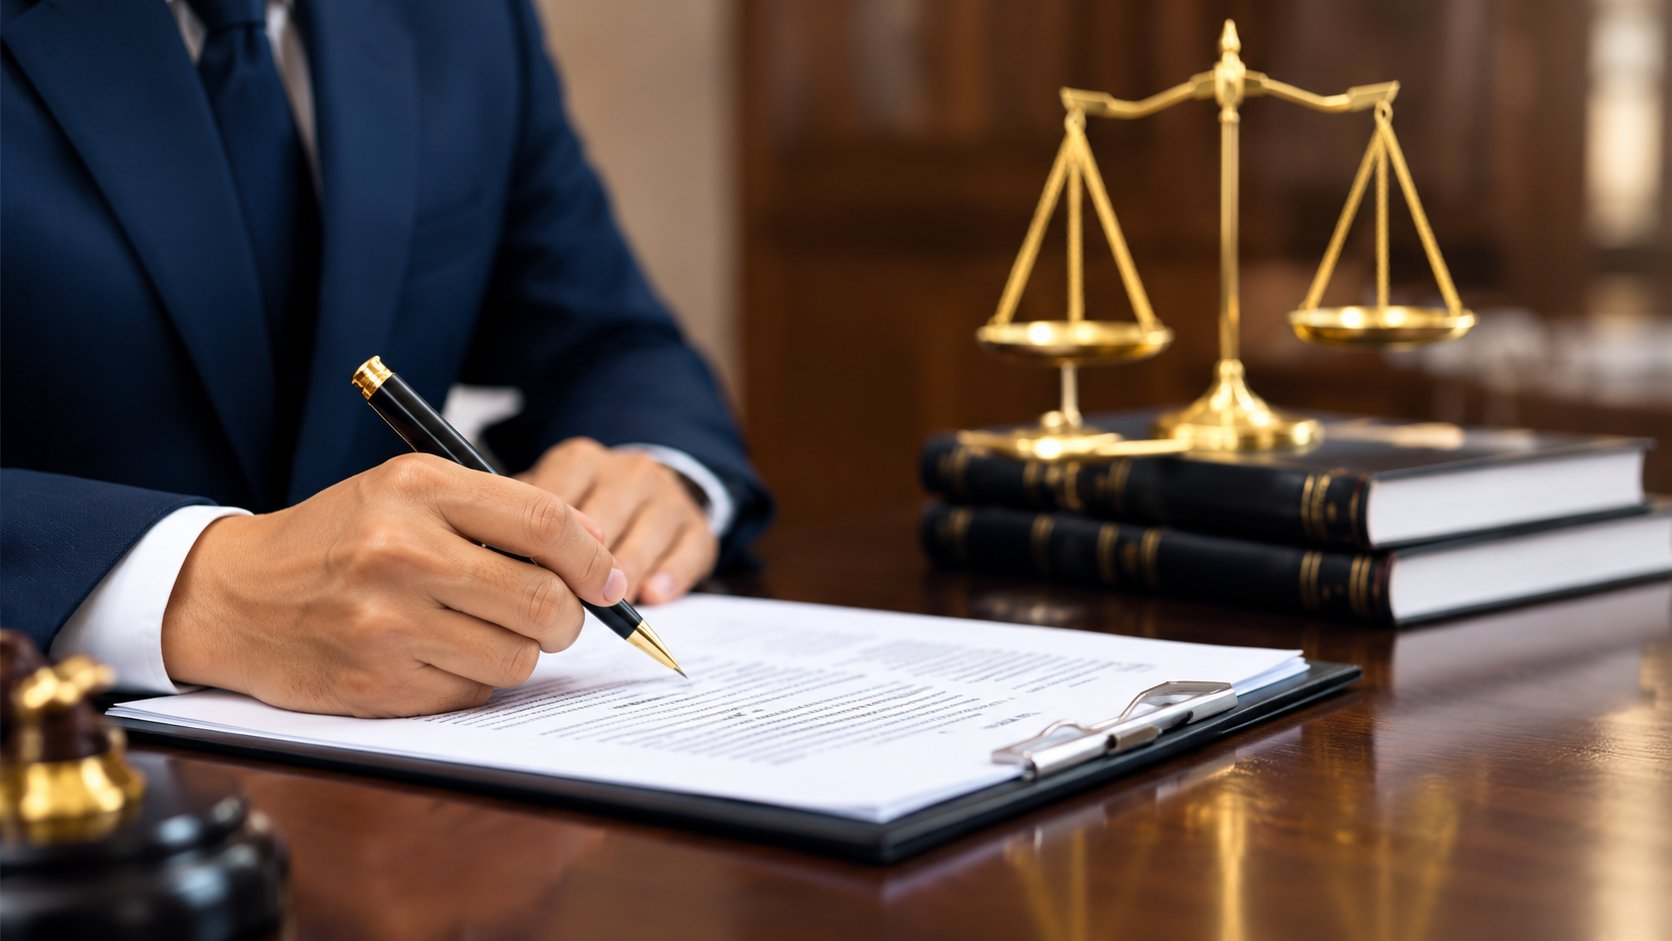
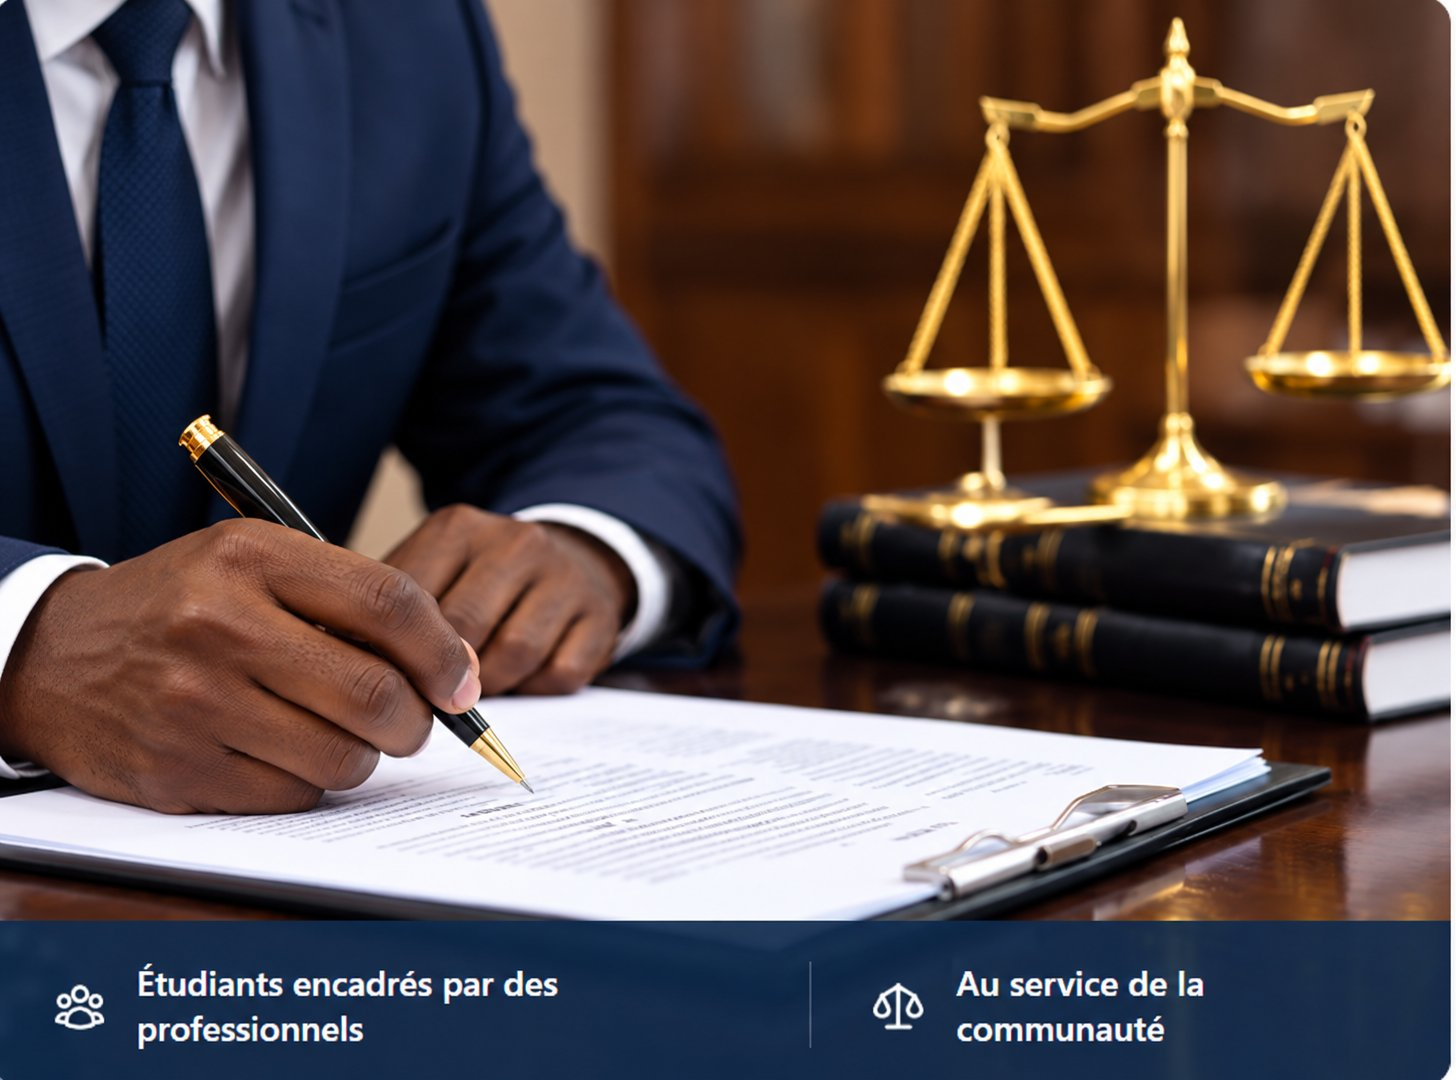
Met à jour l'image de la section Mission (accueil)
Remplace la photo par la nouvelle version fournie (même composition :
signature de document, balance dorée et livres de droit en arrière-
plan), export optimisé en JPEG/WebP.

diff --git a/resources/views/home.blade.php b/resources/views/home.blade.php
@@ -159,8 +159,8 @@
             <x-picture
                 path="placeholders/mission-consultation"
                 alt="Avocat signant un document juridique, balance de la justice en arrière-plan"
-                width="1672"
-                height="941"
+                width="1456"
+                height="1080"
                 class="aspect-[4/3] w-full object-cover"
             />
 
